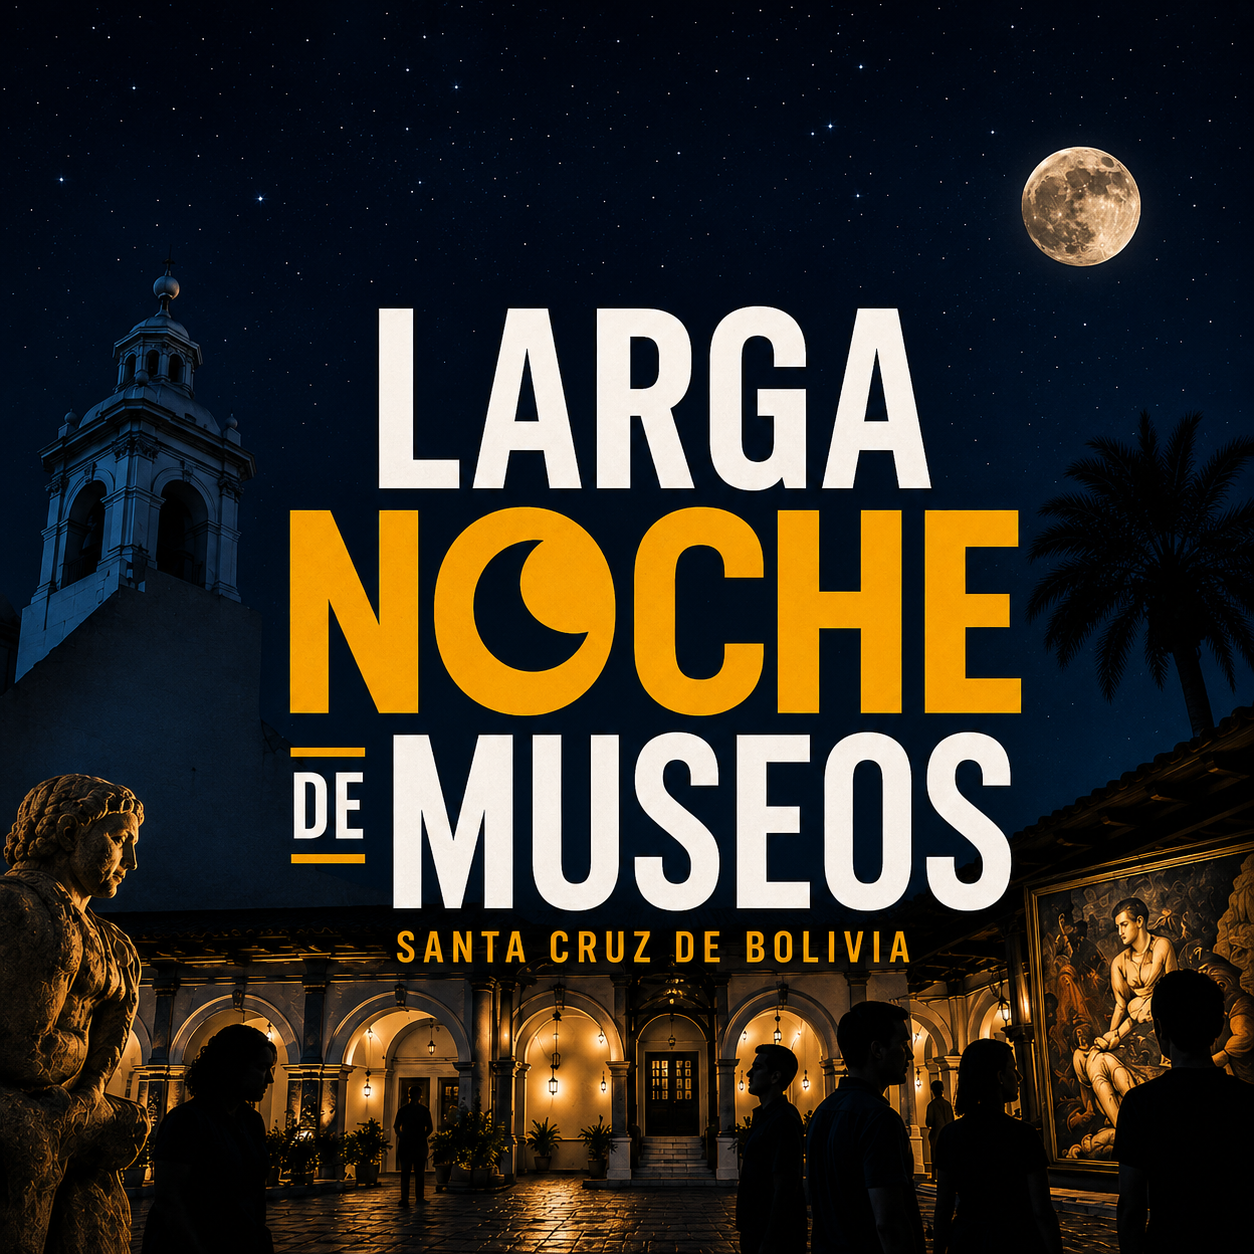
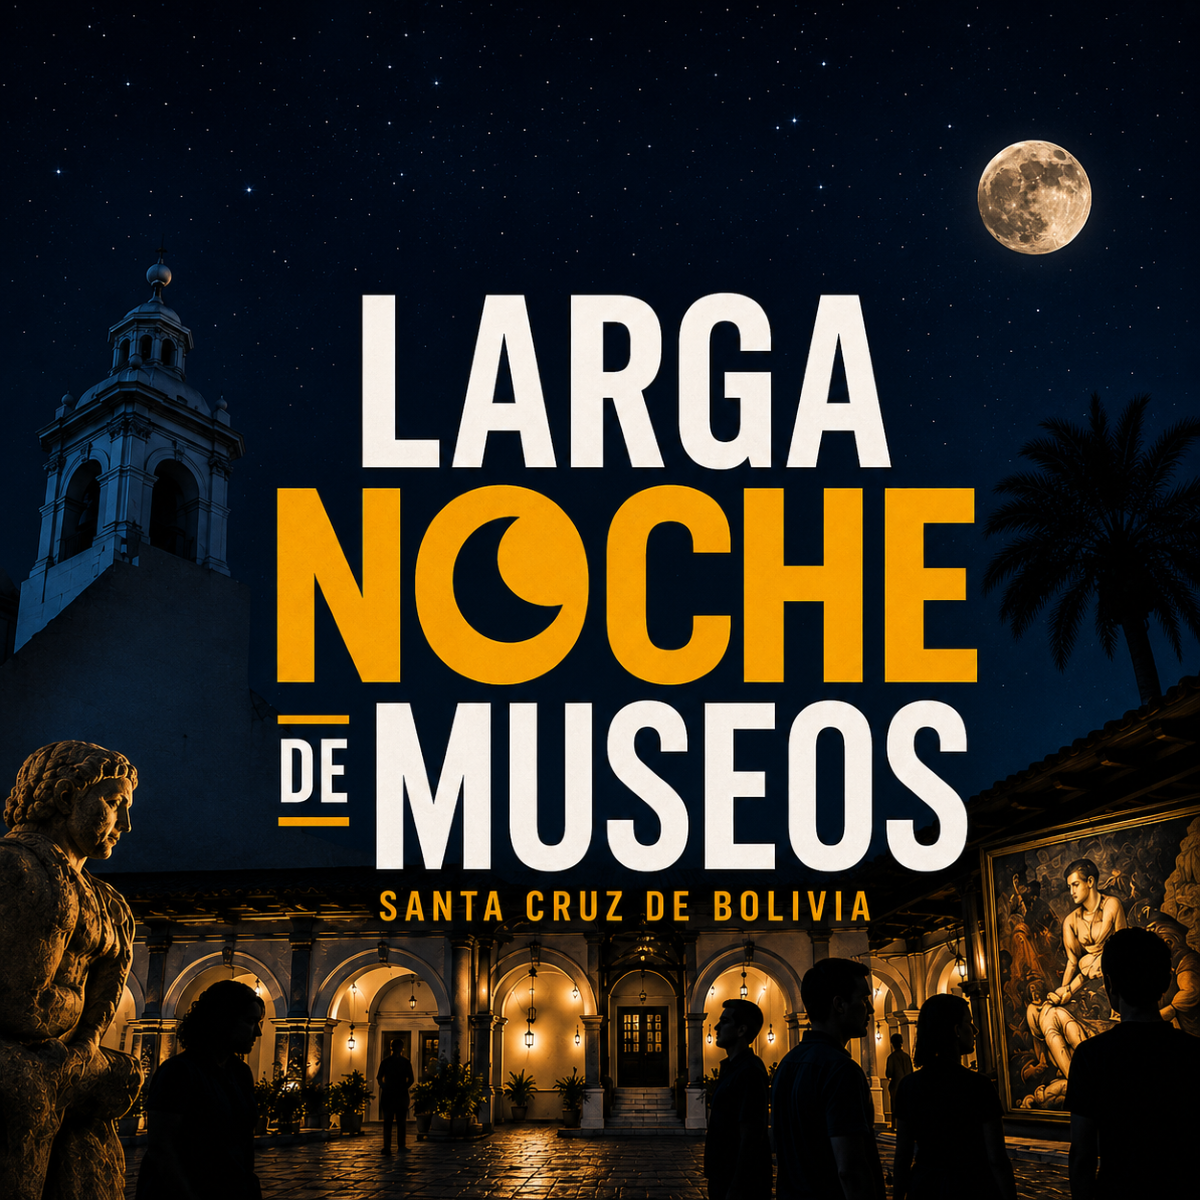
tamaños imagenes

Changed region(s): [[0.4317, 0.9558, 0.4625, 1.0], [0.8942, 0.6783, 0.925, 0.7092], [0.6167, 0.74, 0.6475, 0.7708]]

diff --git a/larga_noche_de_museos/index.html b/larga_noche_de_museos/index.html
@@ -1474,7 +1474,7 @@
 
     <!-- ALEJANDRO SOSA -->
     <div class="perfil-card">
-      <img class="perfil-photo" src="imagen/Alejandro_Sosa.jpeg" alt="Alejandro Sosa" onerror="this.style.display='none'; this.nextElementSibling.style.display='flex'">
+      <img class="perfil-photo" src="imagen/Alejandro_Sosa.jpg" alt="Alejandro Sosa" onerror="this.style.display='none'; this.nextElementSibling.style.display='flex'">
       <div class="perfil-photo-placeholder" style="display:none">foto</div>
       <div class="perfil-body">
         <p class="perfil-name">Alejandro Sosa</p>